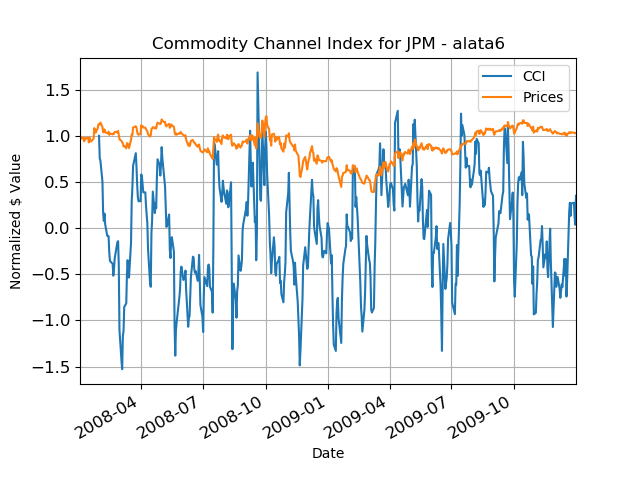
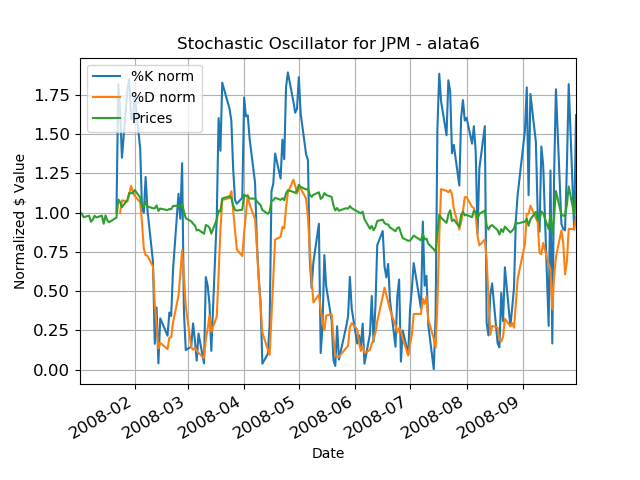
stoch fixed

Changed region(s): [[0.0, 0.0625, 0.9062, 0.7812], [0.0938, 0.8125, 0.8125, 0.9062], [0.0312, 0.6562, 0.125, 0.7188]]

diff --git a/p6_manual_strategy/indicators.py b/p6_manual_strategy/indicators.py
@@ -12,11 +12,13 @@ class Indicators(object):
     def generate_charts(self):
         start_date = dt.datetime(2008, 1, 1)
         end_date = dt.datetime(2009, 12, 31)
+        shorter_end_date = dt.datetime(2008, 9, 30)
         dates = pd.date_range(start_date, end_date)
+        shorter_range = pd.date_range(start_date, shorter_end_date)
         lookback = 14
         symbols = ['JPM']
         prices = get_data(symbols, dates).drop(['SPY'], axis=1)
-        all_data = self.get_all_data(symbols, dates, addSPY=False)
+        all_data = self.get_all_data(symbols, shorter_range, addSPY=False)
         self.simple_moving_average(prices=prices, lookback=lookback, make_plot=True)
         self.bollinger_band_percentage(prices, lookback, True)
         self.macd(prices, True)
@@ -119,8 +121,9 @@ class Indicators(object):
 
         stoch_df = symbol_df.copy()
         stoch_df.drop(stoch_df.iloc[:, 0:-2], inplace=True, axis=1)
-        stoch_df['%K norm'] = stoch_df['%K'] / stoch_df['%K'].iloc[0]  # normalized
-        stoch_df['%D norm'] = stoch_df['%D'] / stoch_df['%D'].iloc[0]  # normalized
+        stoch_df['%K norm'] = stoch_df['%K'] / stoch_df['%K'].iloc[fast_period-1]  # normalized
+        stoch_df['%D norm'] = stoch_df['%D'] / stoch_df['%D'].iloc[fast_period+slow_period-2]  # normalized
+        stoch_df.drop(stoch_df.iloc[:, 0:2], inplace=True, axis=1)
         adj_close_prices = symbol_df['Adj Close']
         stoch_df['Prices'] = adj_close_prices / adj_close_prices.iloc[0]  # normalized
 
@@ -128,7 +131,7 @@ class Indicators(object):
             stoch_graph = stoch_df.plot(title='Stochastic Oscillator for JPM - alata6', fontsize=12,
                                     grid=True)
             stoch_graph.set_xlabel('Date')
-            stoch_graph.set_ylabel('Normalized $ Value')
+            stoch_graph.set_ylabel('Normalized Values')
             plt.savefig('Figure_7.png')
 
         return stoch_df
@@ -154,7 +157,7 @@ class Indicators(object):
             cci_graph = cci_df.plot(title='Commodity Channel Index for JPM - alata6', fontsize=12,
                                       grid=True)
             cci_graph.set_xlabel('Date')
-            cci_graph.set_ylabel('Normalized $ Value')
+            cci_graph.set_ylabel('Normalized Values')
             plt.savefig('Figure_8.png')
 
         return cci_df
